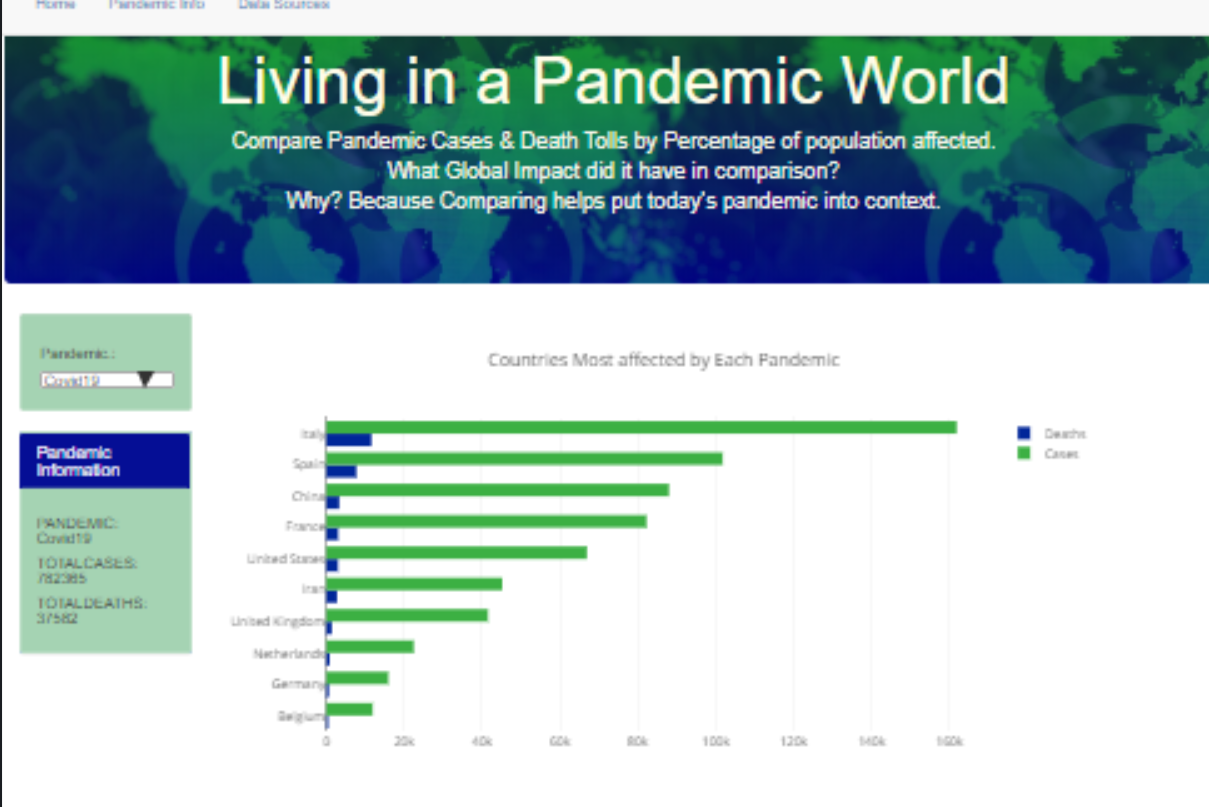
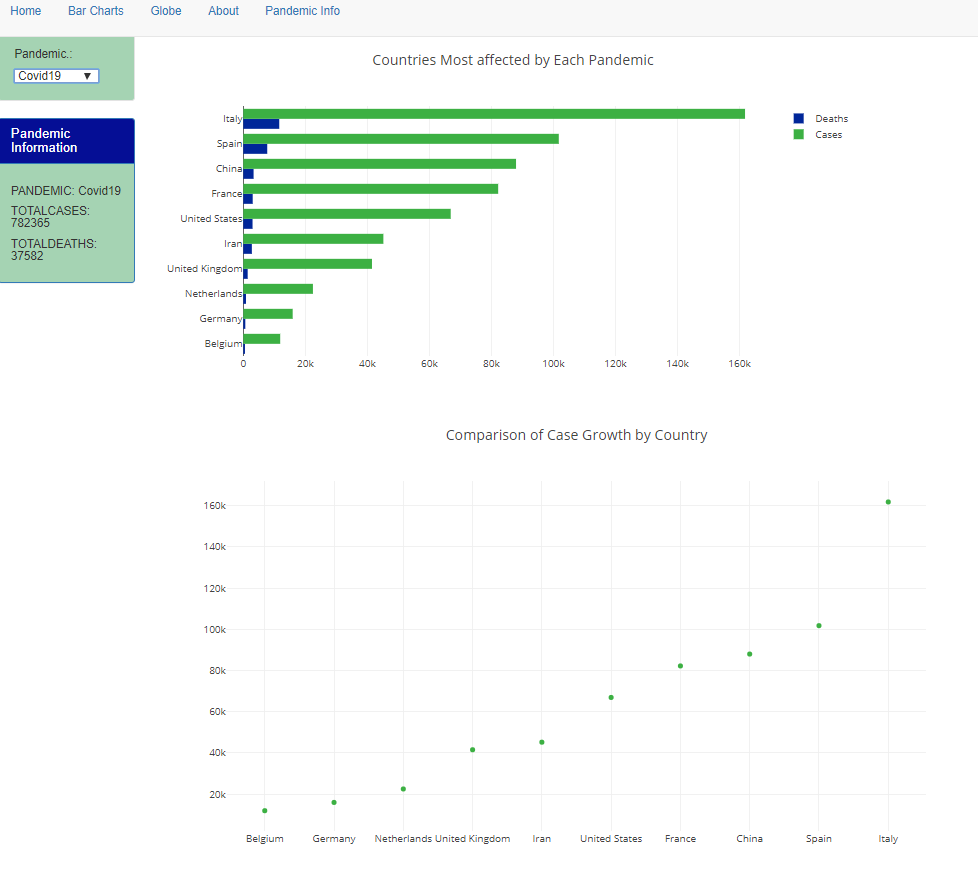
finished presentation and fixed the parsInts

diff --git a/static/app.js b/static/app.js
@@ -234,14 +234,14 @@ d3.json("/api/v1.0/pandemic", (data)=> {
         d3.sum(pandemics, d => d.Deaths)
 
         // Storing the total of each 
-        var totalcases =  d3.sum(pandemics, d => d.Cases);
-        var totaldeaths = d3.sum(pandemics, d => d.Deaths);
+        var totalcases =  d3.sum(pandemics, d => parseInt(d.Cases));
+        var totaldeaths = d3.sum(pandemics, d => parseInt(d.Deaths));
 
         console.log(pandemics);
 
         //Get top 10 of each
-        var sortedcases = pandemics.sort((a, b) => d3.descending(a.Cases, b.Cases)).slice(0, 10)
-        var sorteddeaths = pandemics.sort((a, b) => d3.descending(a.Deaths, b.Deaths)).slice(0, 10)
+        var sortedcases = pandemics.sort((a, b) => d3.descending(parseInt(a.Cases), parseInt(b.Cases))).slice(0, 10)
+        var sorteddeaths = pandemics.sort((a, b) => d3.descending(parseInt(a.Deaths), parseInt(b.Deaths))).slice(0, 10)
 
 
         //    var cases = sortedcases.metadata.map(d => d.Cases)
@@ -256,8 +256,8 @@ d3.json("/api/v1.0/pandemic", (data)=> {
 
         // make a function for data plotting (bar and bubble) for top 10
 
-        var Deaths_top = sorteddeaths.map(d => d.Deaths).reverse();
-        var Cases_top = sortedcases.map(c => c.Cases).reverse();
+        var Deaths_top = sorteddeaths.map(d =>  parseInt(d.Deaths)).reverse();
+        var Cases_top = sortedcases.map(c =>  parseInt(c.Cases)).reverse();
         // get the otu ids   
         // var Country_id = Deaths_top.map(d => "Country " + d)
         var Country_id = sorteddeaths.map(c => c.Country).reverse();
